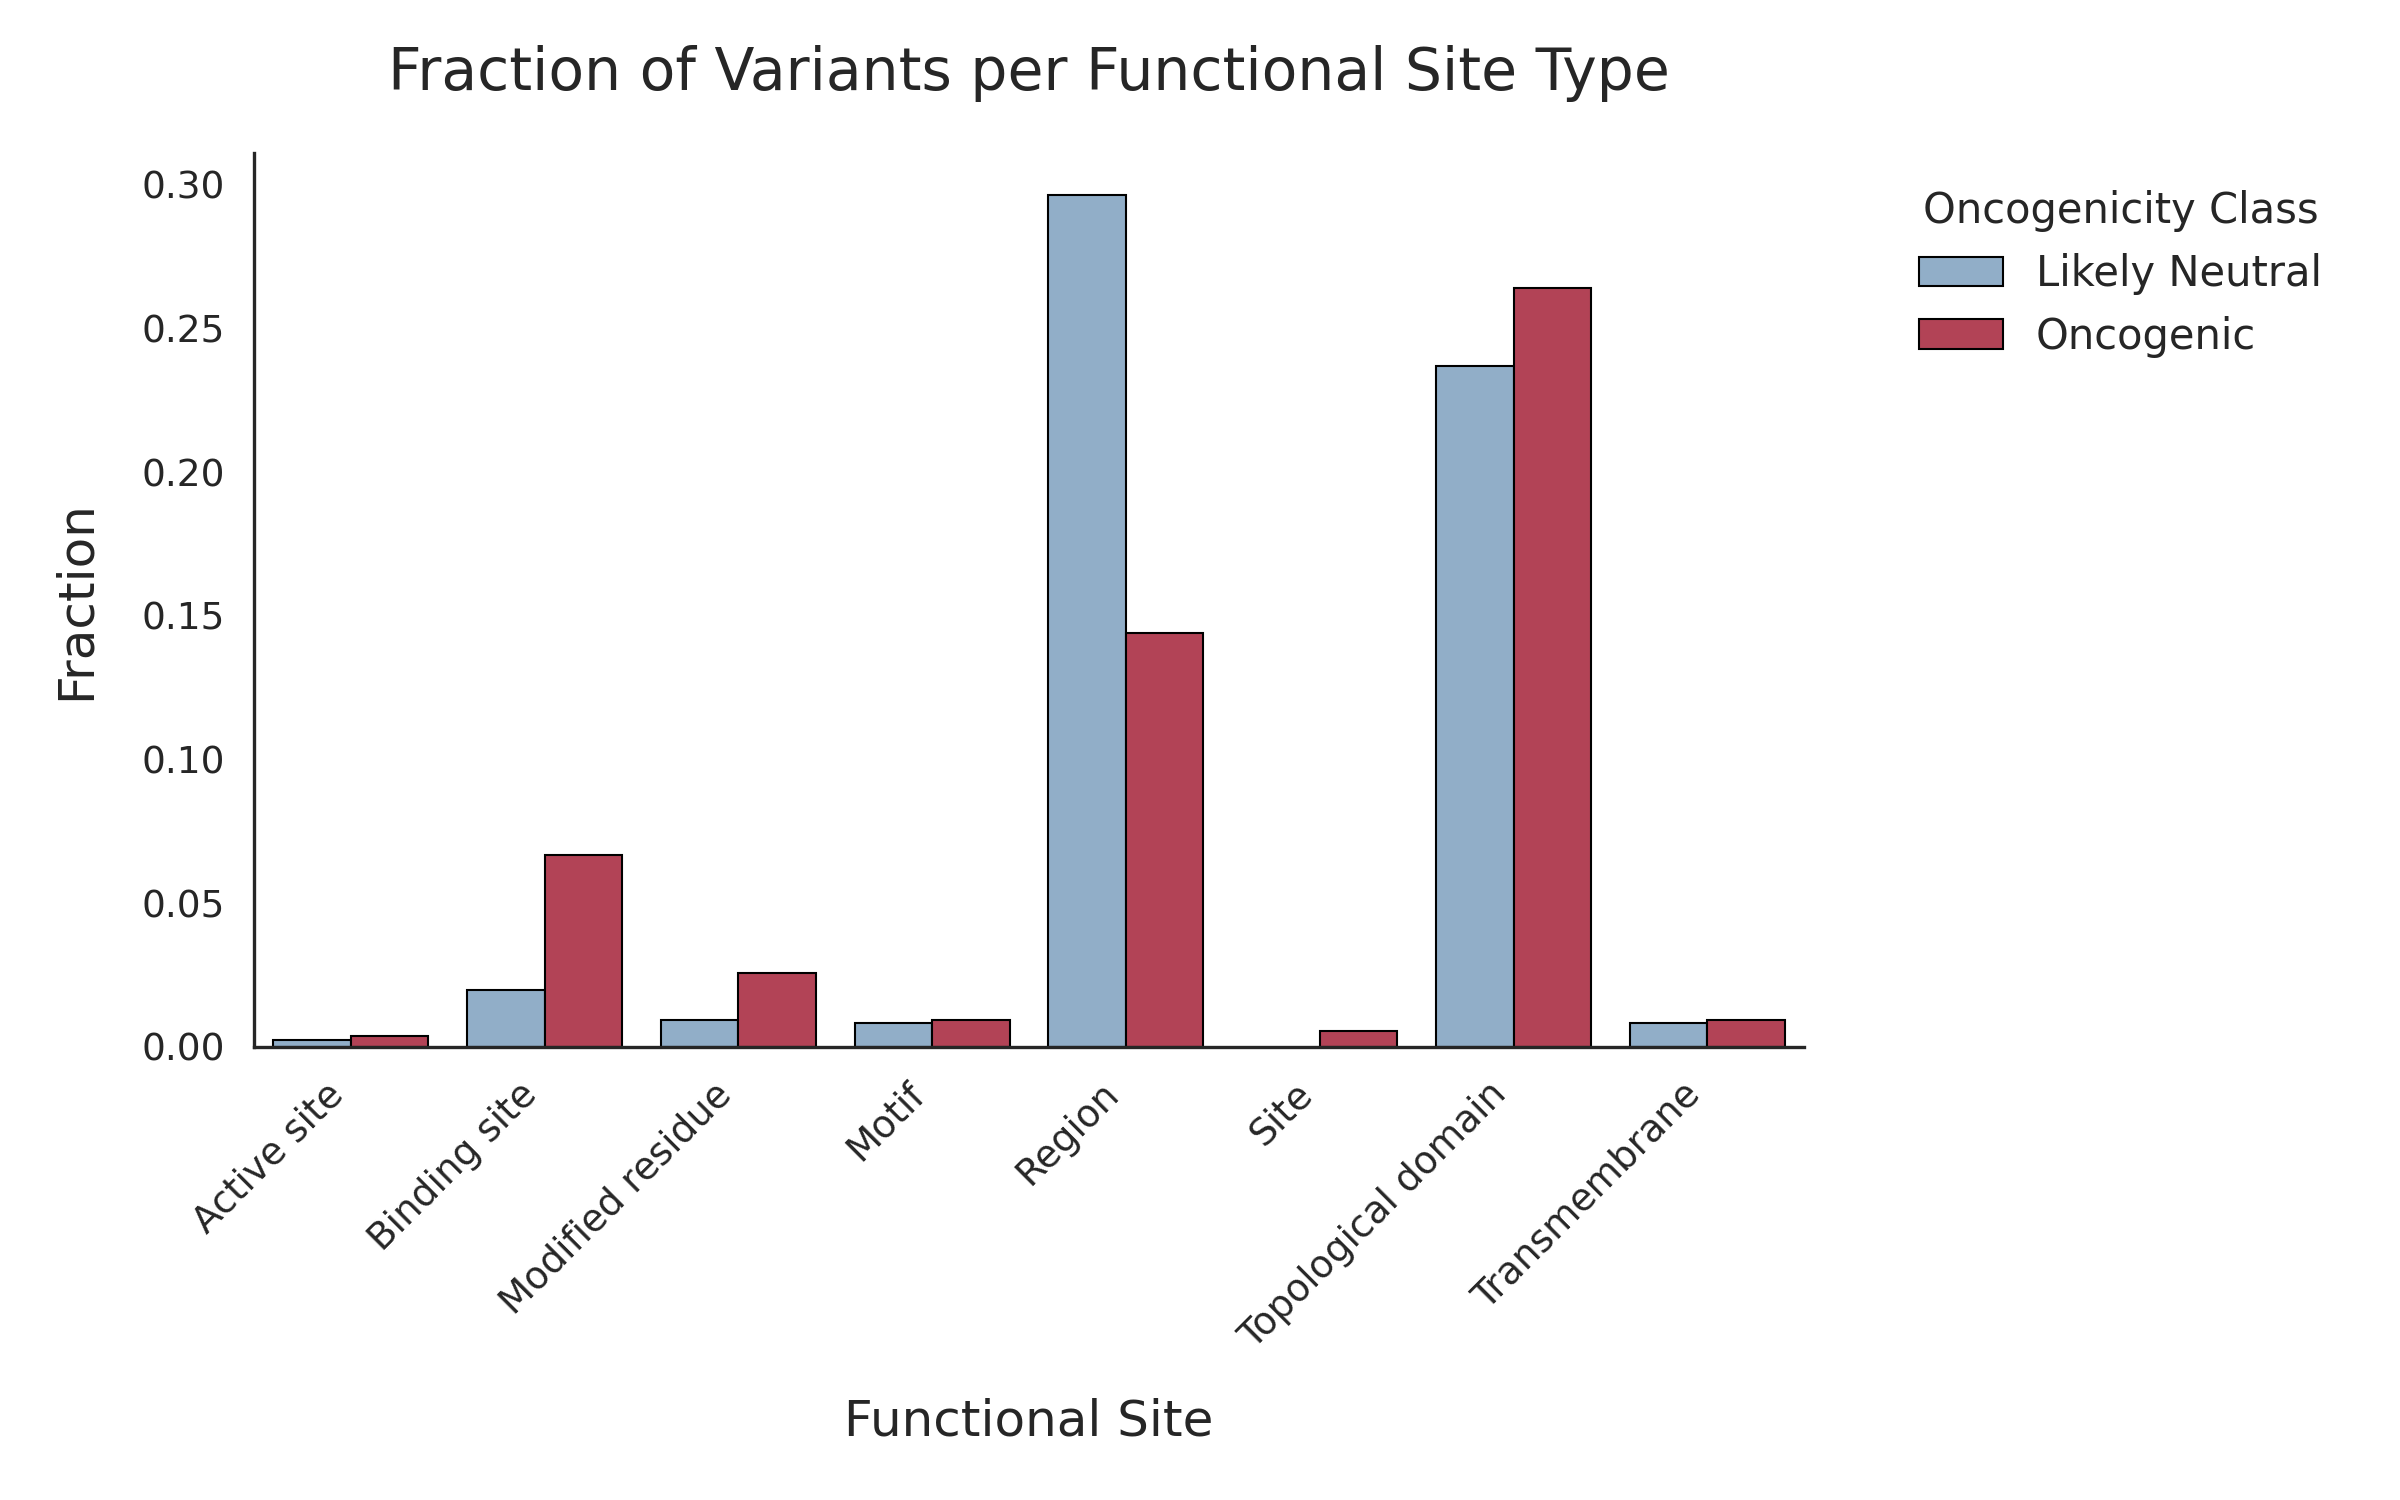
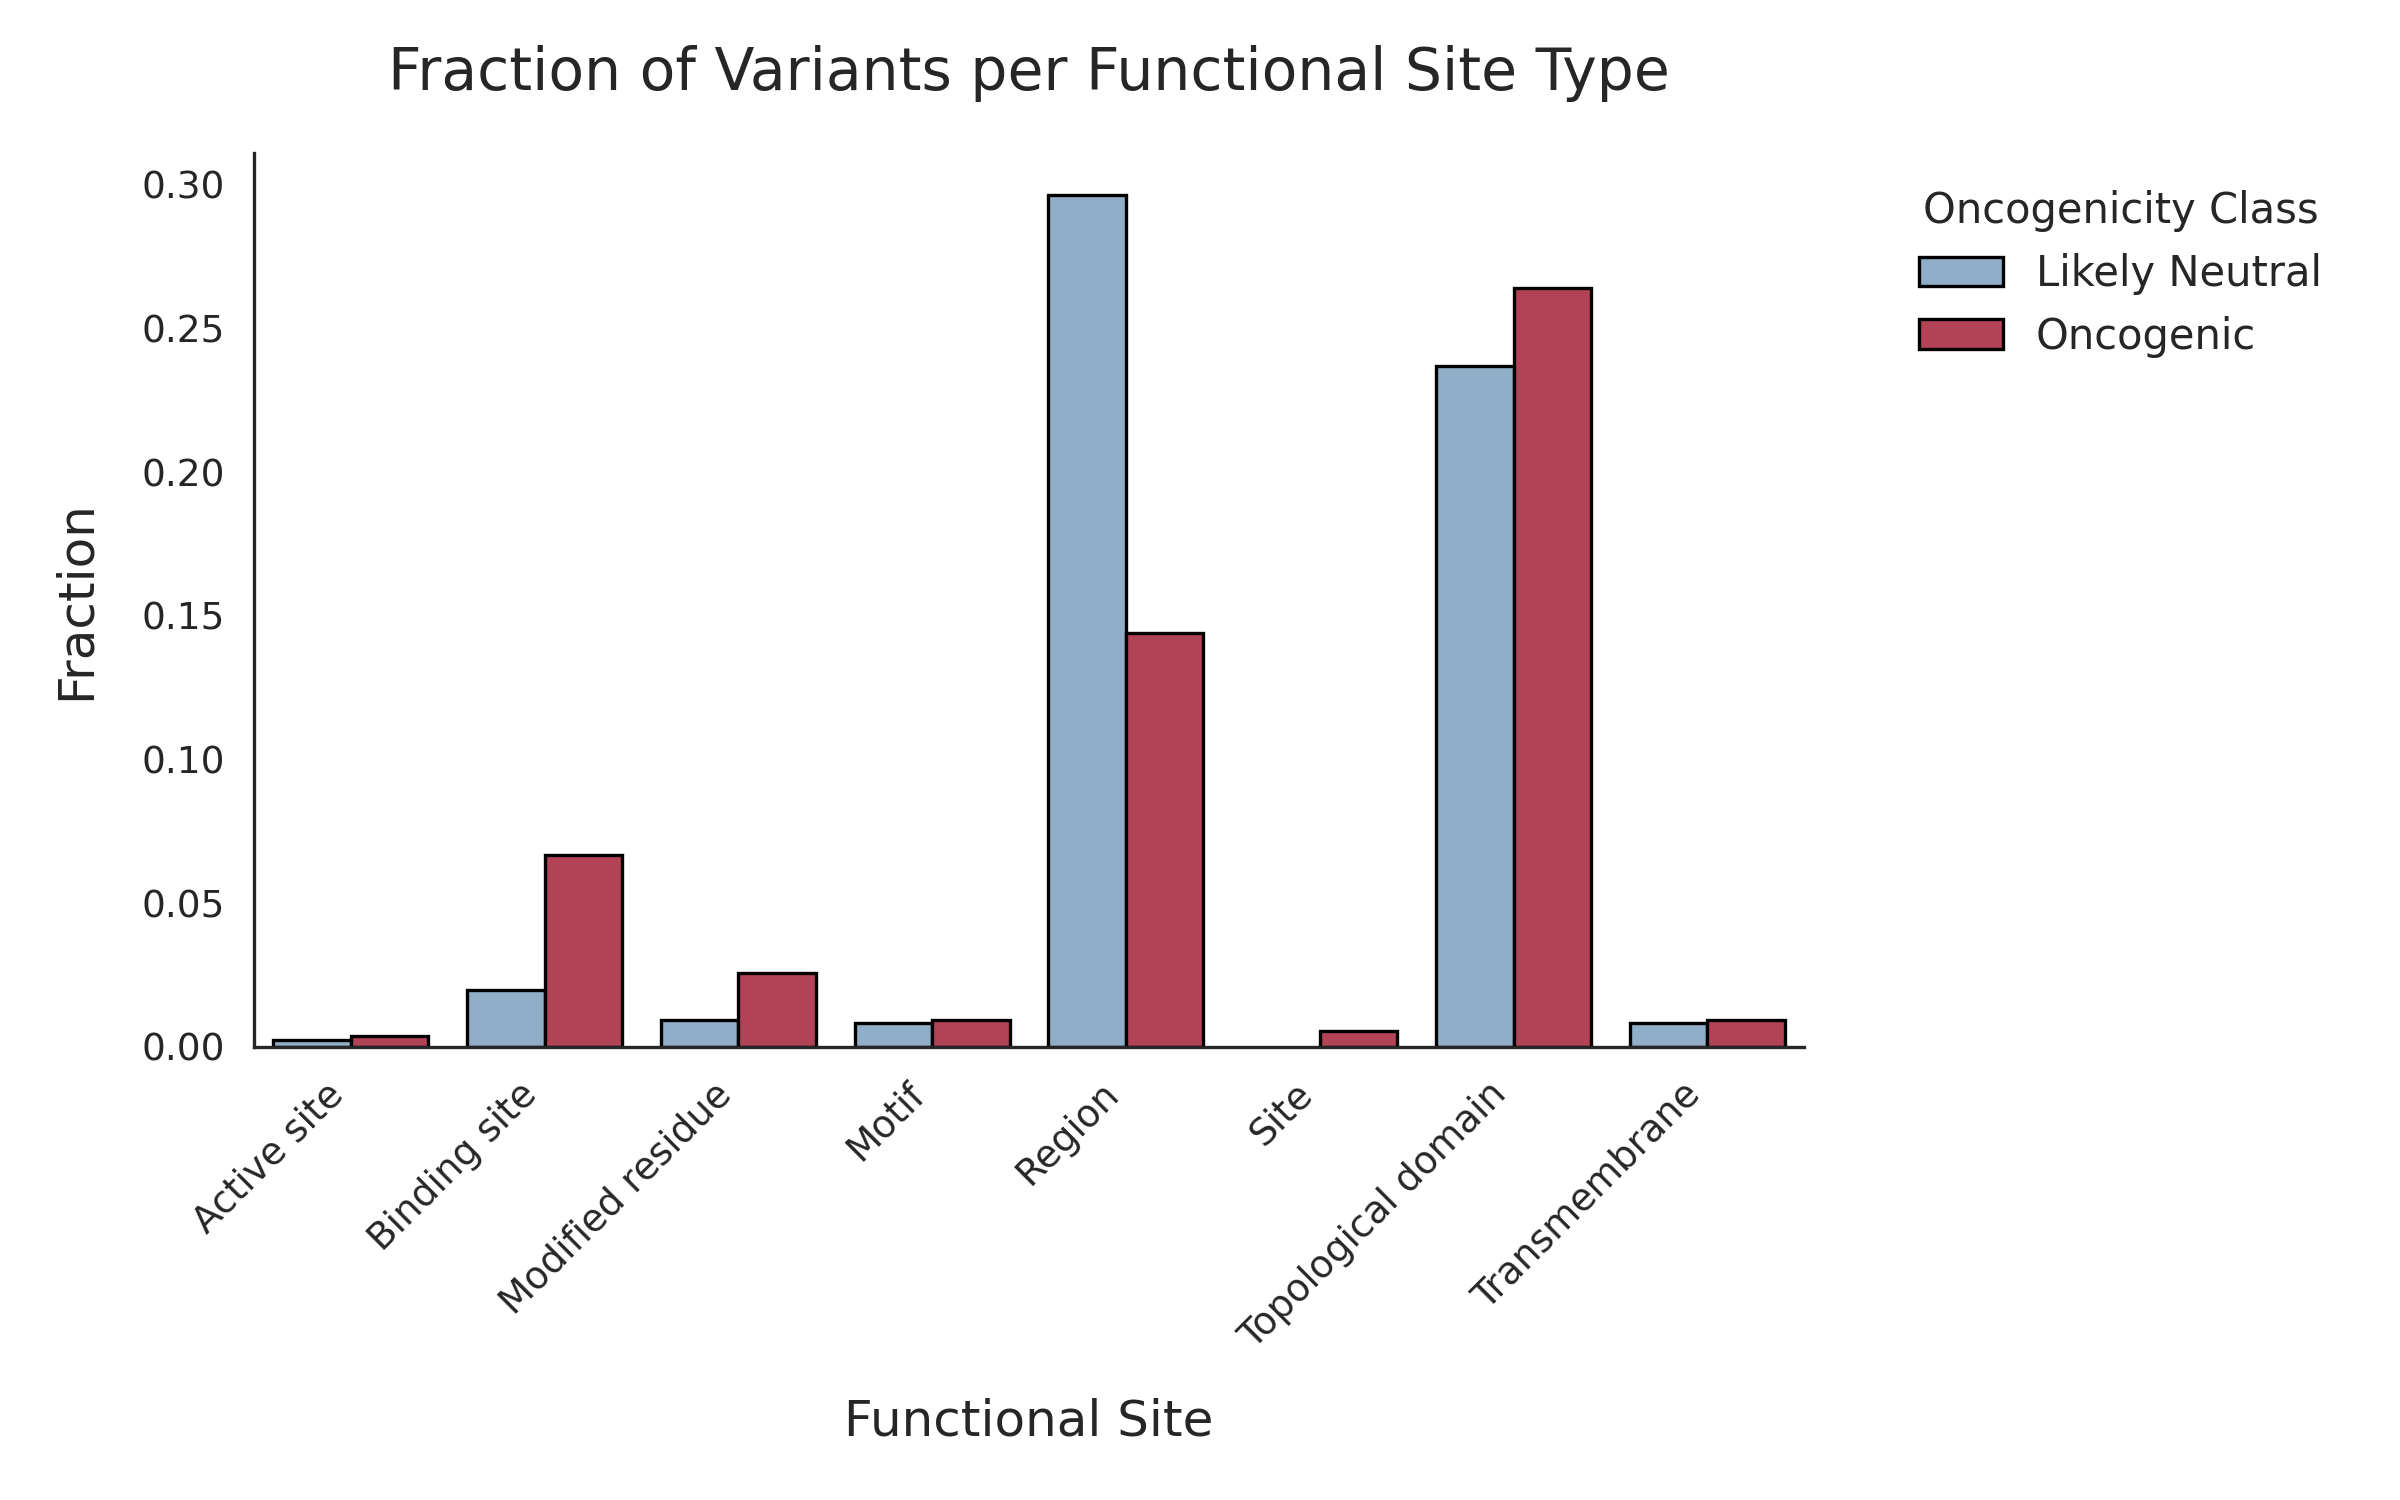
edit plots

Changed region(s): [[0.8125, 0.184, 0.8438, 0.2147]]

diff --git a/scripts/statistics/stats_protein_domains.py b/scripts/statistics/stats_protein_domains.py
@@ -100,6 +100,8 @@ def analyse_top_domains(df, n_top=10, alpha=0.05):
         # Expected = 0 in any cell: use Fisher's exact, else: Chi-Square
         chi2, _, _, expected = chi2_contingency(observed_table)
 
+        cramers_v = np.sqrt(chi2 / total) if total > 0 else 0
+
         if expected.min() < 5 or any(0 in row for row in observed_table):
             _, p = fisher_exact(observed_table)
             test_used = "Fisher"
@@ -109,15 +111,15 @@ def analyse_top_domains(df, n_top=10, alpha=0.05):
 
         # Odds ratio 
         or_result = scipy_odds_ratio(observed_table)
-        or_value = or_result.statistic
-        ci = or_result.confidence_interval()
+
         
         results.append({
             "Domain":      d, 
             "p_value":     p, 
-            "Odds_Ratio":  or_value,
-            "CI_95_low":   ci.low,
-            "CI_95_high":  ci.high,
+            "Cramers_V": cramers_v,
+            "Odds_Ratio":  or_result.statistic,
+            "CI_95_low":   or_result.confidence_interval().low,
+            "CI_95_high":  or_result.confidence_interval().high,
             "Count_Onco_in":  onc_in,
             "Count_Neu_in":   neu_in,
             "Test":        test_used

diff --git a/scripts/EDA/functional_sites.py b/scripts/EDA/functional_sites.py
@@ -216,7 +216,7 @@ sns.barplot(
     hue="ONCOGENIC",
     palette=palette, 
     edgecolor="black",
-    linewidth=0.5
+    linewidth=0.8
 )
 
 sns.despine() 
@@ -254,7 +254,7 @@ onco_counts = (
 feature_totals = onco_counts.groupby("FEATURE_TYPE")["Count"].sum()
 
 # Calculate contribution fraction: 
-# "How much of this sites total oncogenic burden comes from this gene?"
+# "How much of this site's total oncogenic burden comes from this gene?"
 onco_counts["Contribution_Fraction"] = (
     onco_counts["Count"] / onco_counts["FEATURE_TYPE"].map(feature_totals)
 )
